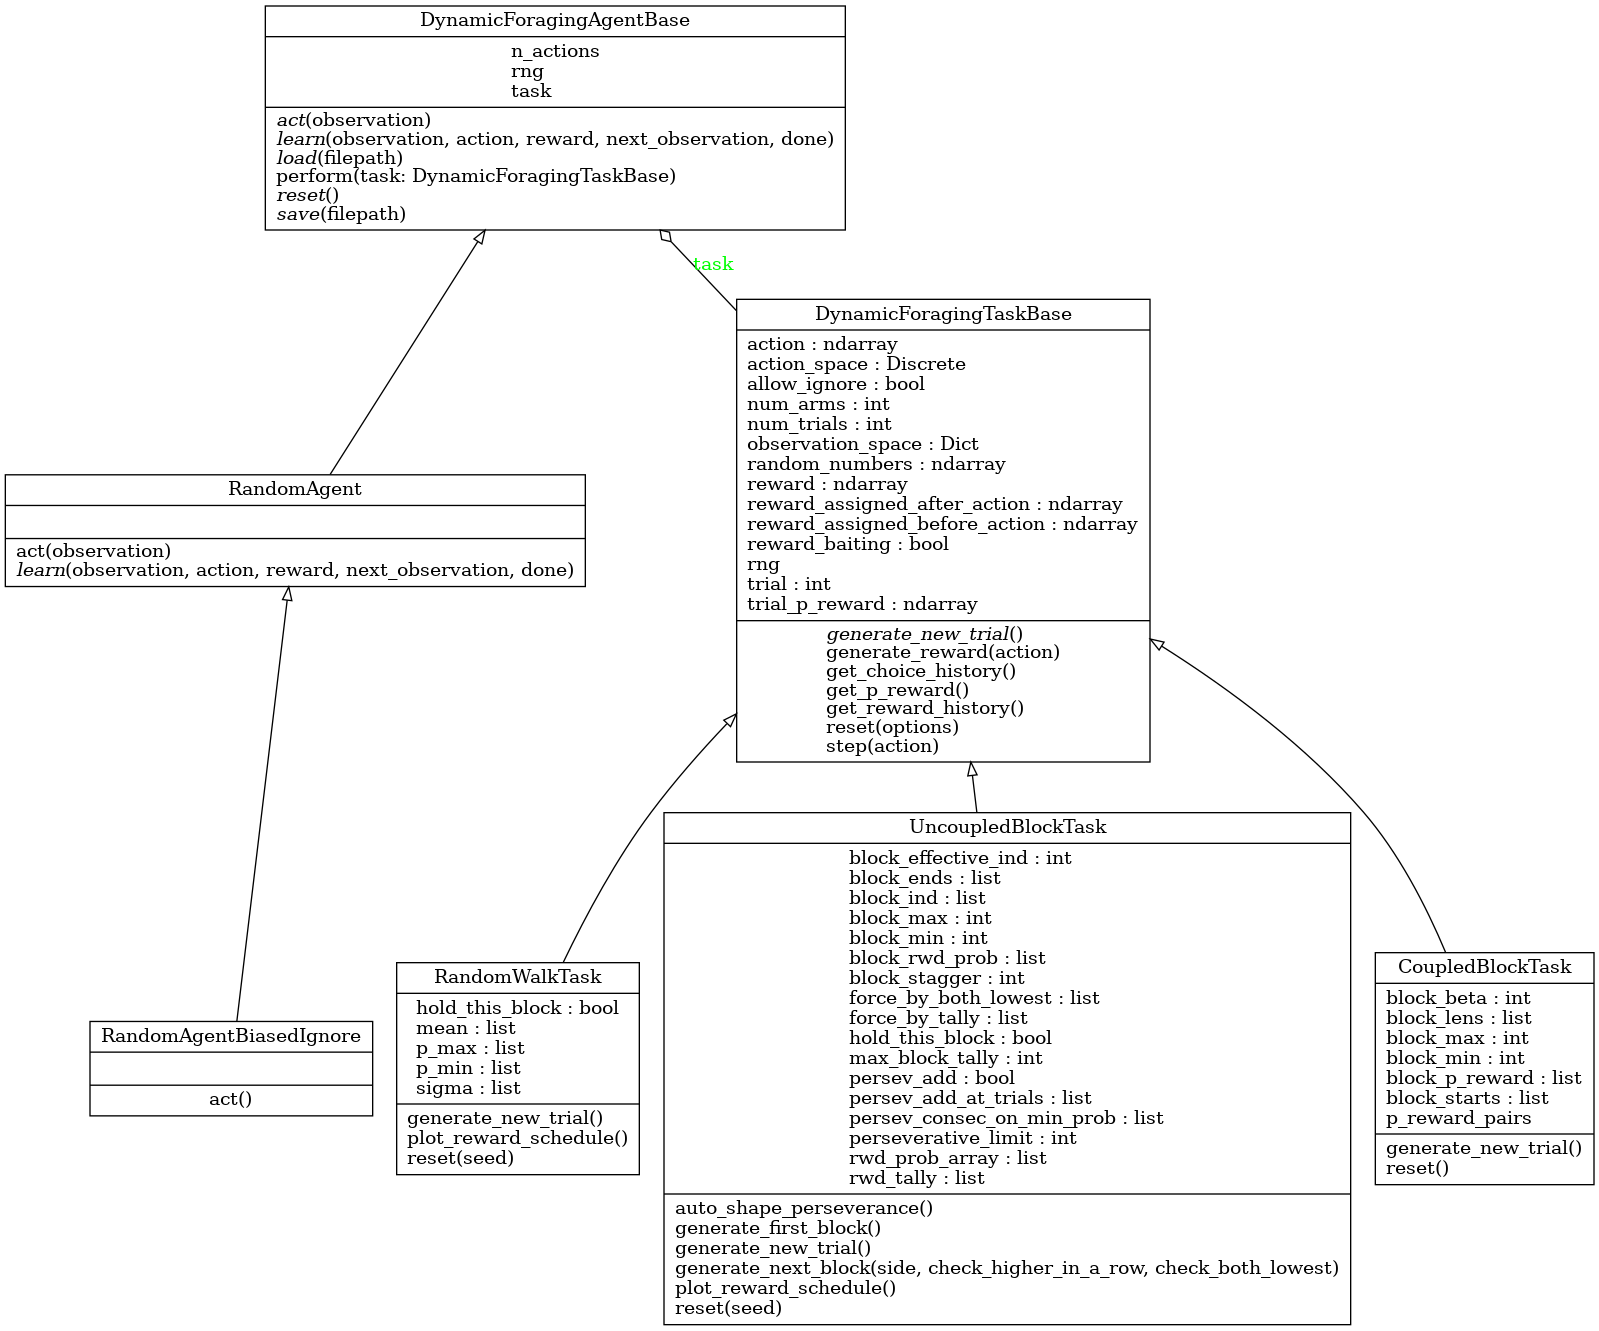
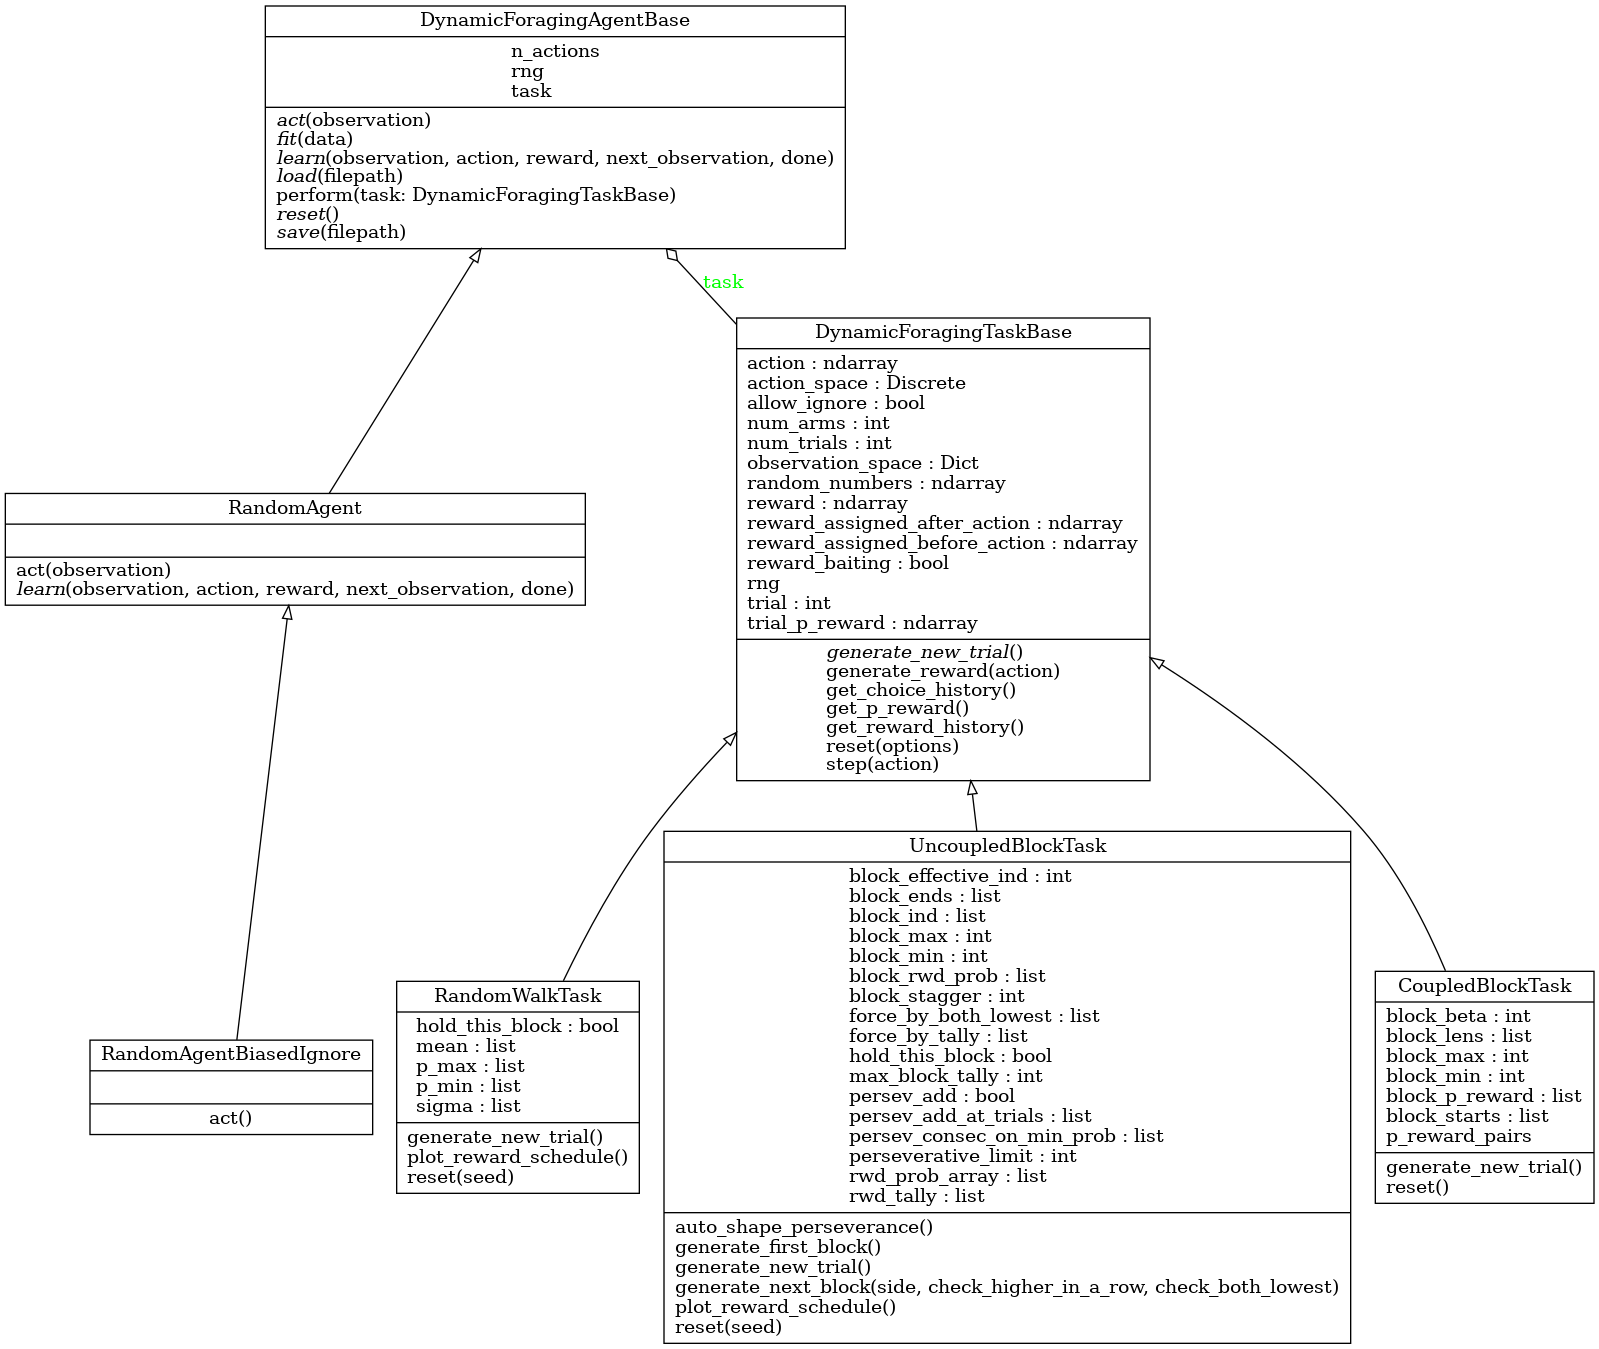
also add an empty fit() method to agent class

diff --git a/src/aind_behavior_gym/dynamic_foraging/agent/base.py b/src/aind_behavior_gym/dynamic_foraging/agent/base.py
@@ -68,6 +68,15 @@ class DynamicForagingAgentBase:
         """
         raise NotImplementedError("The 'learn' method should be overridden by subclasses.")
 
+    def fit(self, data):
+        """
+        Fit the parameters of the agent to data.
+
+        Args:
+            data: Either from animal data (model fitting) or simulated data (model recovery)
+        """
+        raise NotImplementedError("The 'fit' method should be overridden in order to fit data.")
+
     def save(self, filepath):
         """
         Saves the agent's current state or learned parameters to a file.
